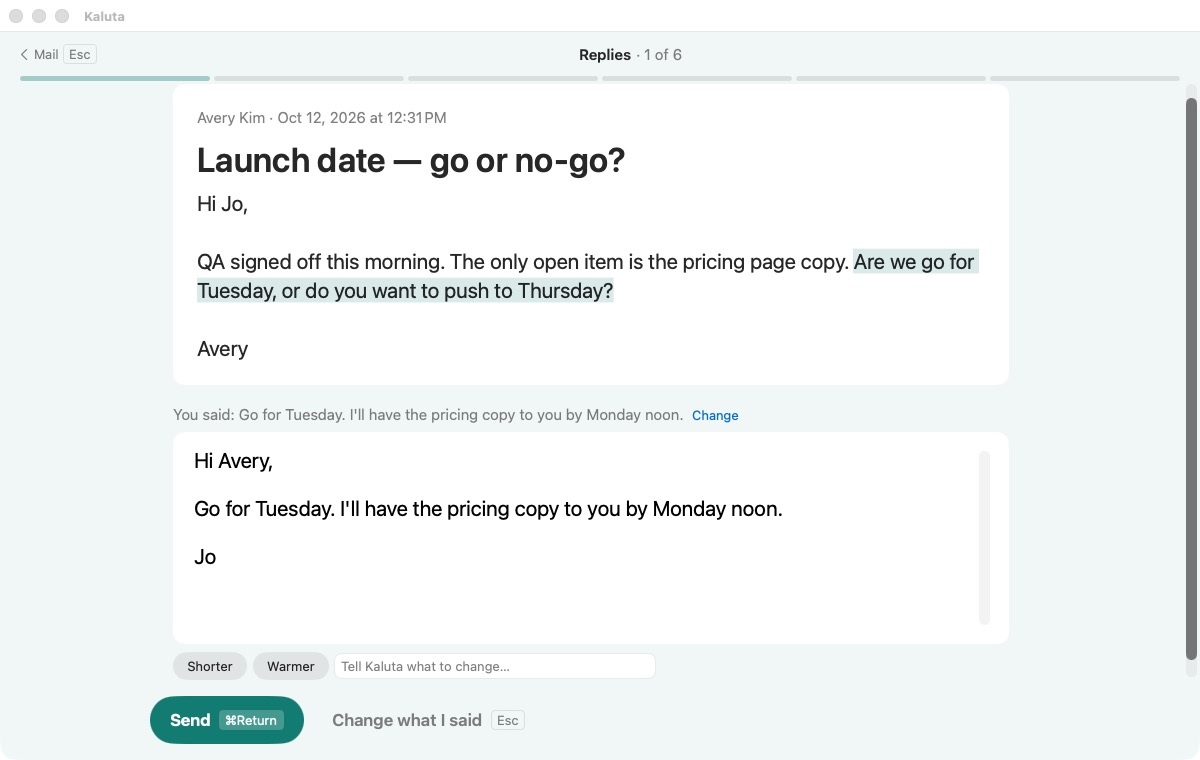
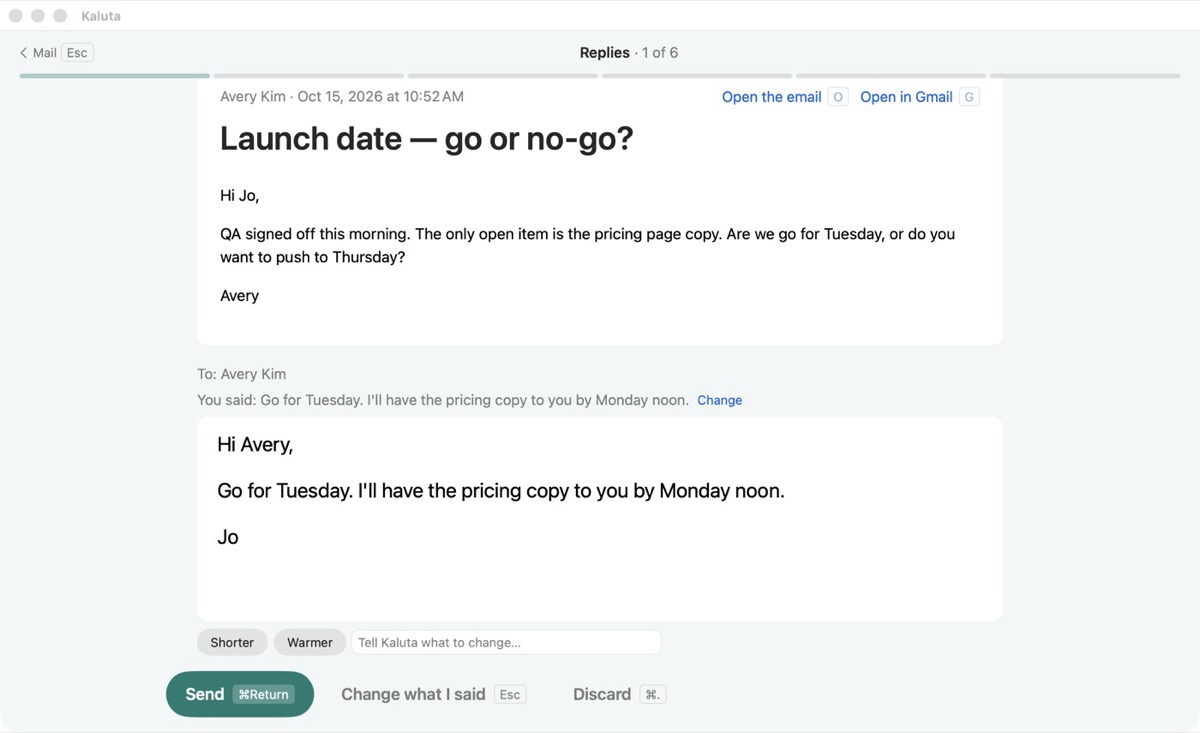
Features page: all seven workflows, with new screenshots
Weekly reading, Agents and Teach Kaluta join Triage, Replies, Tasks and
Waiting on others, each with a screenshot from the workflow demo; the
four existing shots and What's Next are retaken for the reworked screens
(Triage marks its suggestion on its own button, emails show as sent with
Open the email and Open in Gmail, Write it with Kaluta or Use my words).
The preview note shows the Inbox's Daily Workflows offer. Agent sends now
go through Review and Send (new card image replaces agent-task.png);
routines, the writing guide and agent mailboxes mention Weekly reading,
Teach Kaluta and the Agents workflow.

Comparison pages: the Daily workflows row lists all seven and the
routine cells mention Weekly reading; no new claims about the other
products.

diff --git a/src/app/features/page.tsx b/src/app/features/page.tsx
@@ -49,20 +49,23 @@ const workflows = [
     name: "Triage",
     dot: "bg-indigo-500",
     src: "/img/workflow-triage.jpg",
-    alt: "Triage, 1 of 9: Sam Rivera's email asking whether Thursday at 2 works for board prep, under Kaluta's suggestion, Quick reply · about 20 seconds, the reason Sam asks something quick, and the conversation's task. Buttons: Reply (Return), Make a task (T), Archive (E), Leave in Inbox (L), Skip for now (S)",
-    text: "Every new conversation, people first, with Kaluta's suggestion and its reason: a quick reply when the answer takes 30 seconds or less, with up to three answers ready to pick; a task when it takes longer, filled in on the same screen; archive; or leave it in the Inbox. Return takes the suggestion, and the other choices are always one key away.",
+    height: 760,
+    alt: "Triage, 1 of 9: Sam Rivera's email asking whether Thursday at 2 works for board prep, as it was sent, with Open the email (O) and Open in Gmail (G); above it Kaluta's suggestion, Quick reply · about 20 seconds, its reason, and the conversation's task. Buttons: Reply (Return), Make a task (T), Archive (E), Leave in Inbox (L), Skip for now (S)",
+    text: "Every new conversation, people first, with Kaluta's suggestion and its reason: a quick reply when the answer takes 30 seconds or less, with up to three answers ready to pick; a task when it takes longer, filled in on the same screen; archive; or leave it in the Inbox. The suggestion is marked on its own button and the keys never move, so Return is always Reply. A long newsletter or report shows Kaluta's short summary instead, and if you already wrote to the sender in another thread, Triage says so.",
   },
   {
     name: "Replies",
     dot: "bg-teal-600",
     src: "/img/workflow-replies.jpg",
-    alt: "Replies, 1 of 6: Avery Kim asks whether launch goes ahead on Tuesday or moves to Thursday, with the question highlighted, then What do you want to say? with the starters Go for Tuesday and Push to Thursday, and a Write it button",
-    text: "Conversations that ask you something and have no task. Kaluta highlights the questions and asks what you want to say, with starters drawn from them; it writes nothing until you have said something. Sending archives the conversation, and ⌘Z puts it back.",
+    height: 733,
+    alt: "Replies, 1 of 6: Avery Kim asks whether launch goes ahead on Tuesday or moves to Thursday, then What do you want to say? Kaluta writes the email from it, for you to read and change before it goes; starters Go for Tuesday and Push to Thursday; buttons Write it with Kaluta, Use my words and Cancel",
+    text: "Conversations that ask you something and have no task. Kaluta asks what you want to say, with starters drawn from the email's questions, and writes nothing until you have said something; Use my words makes what you typed the email, with no draft. Sending archives the conversation, Archive (E) is there when no reply is needed, and ⌘Z puts it back.",
   },
   {
     name: "Tasks",
     dot: "bg-orange-600",
     src: "/img/workflow-tasks.jpg",
+    height: 733,
     alt: "Tasks, 1 of 3: Update the card on Example Cloud, Admin, carried over from yesterday, with the reason and the billing email below; a rail lists the day's three tasks and a pill says 2 more later this week. Buttons: Done (E), Tomorrow (L), Skip for now (S)",
     text: "Today's tasks one at a time, carried-over ones first, with the email below and the day's set in a rail. A task that ends in a reply asks what you decided, then Send and finish the task completes it and archives the email. Tomorrow moves one on without penalty; one finished elsewhere shows as done.",
   },
@@ -70,8 +73,33 @@ const workflows = [
     name: "Waiting on others",
     dot: "bg-purple-600",
     src: "/img/workflow-waiting.jpg",
+    height: 733,
     alt: "Waiting on others, 1 of 14: Waiting on Casey Tanaka · 13 days, because the email asks them something, above what you wrote; a rail lists who owes an answer and for how long. Buttons: Nudge (Return), Let it go (E), Check again (L), Skip for now (S)",
     text: "Once a day Kaluta reads the mail you sent and works out which expects an answer, labelling it Waiting so Gmail sees it too. After three days with no reply (a setting) it joins the list, longest first. Nudge picks from up to three follow-ups written ahead, Let it go takes the label off, and Check again hides it for a day, three days or a week.",
+  },
+  {
+    name: "Weekly reading",
+    dot: "bg-amber-700",
+    src: "/img/workflow-reading.jpg",
+    height: 733,
+    alt: "Weekly reading, 1 of 3, in the Needs action soon label: Degraded performance in us-east from Status Alerts, shown as Kaluta's one-line summary; a rail lists the label's three unread emails. Buttons: Read, next (E), Open in full (O), Keep for later (L), Back to the Inbox (I), Clear the bucket (⌘E)",
+    text: "What your sorting routine filed, on the day each label is due: daily ones every day, weekly ones on Friday or a day you choose, monthly ones on the 1st. A short report comes first, then each label one email at a time as Kaluta's summary, written when the routine sorted it. Reading and clearing mark mail read and keep the label; sending one back to the Inbox has Kaluta propose a change to the routine.",
+  },
+  {
+    name: "Agents",
+    dot: "bg-slate-600",
+    src: "/img/workflow-agents.jpg",
+    height: 733,
+    alt: "Agents, 1 of 2: a verification code from Example Journals to an agent mailbox, research-scout@demo.primitive.email, shown large as 482 913 with when it expires. Buttons: Copy the code (C), Done (E), Skip for now (S)",
+    text: "Everything your agents are waiting on you for, across accounts: a send an agent proposed, opened on the email itself to edit and send or not; a verification code that arrived in an agent mailbox, shown large with Copy the code; and this morning's sorting run, to keep or undo. A pill says what agent mailboxes sent on their own.",
+  },
+  {
+    name: "Teach Kaluta",
+    dot: "bg-green-700",
+    src: "/img/workflow-teach.jpg",
+    height: 733,
+    alt: "Teach Kaluta, 1 of 7: a proposed rule, Never write 'circle back', from learning your sent mail, with how it is checked and The messages that show it (O); a rail lists the rest, rules, a guideline, a change and facts. Buttons: Accept (E), Edit… (W), Reject, Show the evidence (O), Skip for now (S)",
+    text: "What Kaluta has learned and wants you to approve, one proposal at a time: writing-guide rules, facts about you, and changes to the sorting routine. Each shows the change it makes, with its evidence on O. Accept, edit or reject each one; there is no Accept All, and ⌘Z undoes a decision and its change together.",
   },
 ];
 
@@ -87,17 +115,18 @@ function Workflows() {
         </h2>
         <p className="mt-4 text-muted text-balance">
           Kaluta opens on <strong className="text-foreground">What&apos;s Next</strong>:
-          how long today&apos;s mail will take, and the job to start with. Each
-          workflow is one daily job, shown one item at a time from a set fixed
-          when you start, with a key on every button and Undo instead of
-          confirmation dialogs. Leave with Esc and come back to the same place;
-          mail that arrives meanwhile waits for the end.
+          how long today&apos;s mail will take, the job to start with, the
+          people you know who wrote, and what is worth a look first. Seven
+          workflows each take one daily job, one item at a time from a set
+          fixed when you start, with a key on every button and Undo instead of
+          confirmation dialogs. Esc goes back to your mail and comes back to
+          the same place; mail that arrives meanwhile waits for the end.
         </p>
       </div>
       <div className="mt-10">
         <Shot
           src="/img/workflows-start.jpg"
-          alt="What's Next: Monday, October 12; About 30 minutes of mail today. A large card, Triage what's new, 9 new conversations, starts on Return; smaller cards for Replies (6 waiting on your answer), Tasks (3 for today, 2 later this week), Waiting on others (14 with no answer), Weekly reading, Agents and Teach Kaluta"
+          alt="What's Next: Thursday, October 15; About 32 minutes of mail today. A large card, Triage what's new, 9 new conversations, from Taylor Chen, Avery Kim, Drew Haddad, Sam Rivera and 2 others you know, with three worth a look and why (answers you, asks you something, to you alone), starts on Return; smaller cards for Replies (6 waiting on your answer), Tasks (3 for today, 2 later this week), Waiting on others (14 with no answer), Weekly reading (3 due today), Agents (2 waiting on you) and Teach Kaluta (7 to decide)"
           width={1200}
           height={760}
         />
@@ -105,7 +134,7 @@ function Workflows() {
       <div className="mt-12 grid gap-x-10 gap-y-14 md:grid-cols-2">
         {workflows.map((w) => (
           <div key={w.name}>
-            <Shot src={w.src} alt={w.alt} width={1200} height={760} />
+            <Shot src={w.src} alt={w.alt} width={1200} height={w.height} />
             <h3 className="mt-5 flex items-center gap-2.5 text-xl font-semibold tracking-tight">
               <span className={`size-2.5 rounded-full ${w.dot}`} />
               {w.name}
@@ -113,40 +142,52 @@ function Workflows() {
             <p className="mt-2 text-muted">{w.text}</p>
           </div>
         ))}
-      </div>
-      <div className="mt-16 grid items-center gap-10 md:grid-cols-2">
-        <div>
+        <div className="self-center">
           <h3 className="text-xl font-semibold tracking-tight">
             Kaluta writes after you
           </h3>
-          <p className="mt-3 text-muted">
-            In a workflow, Kaluta drafts only once you have said what you want,
-            typed or dictated, or, where the answer is short and predictable,
-            offers up to three to pick from. Every email it writes ends on an
-            editable screen: what you said above it, Shorter, Warmer or a
-            change in your own words, then Send.
+          <p className="mt-2 text-muted">
+            Kaluta drafts only once you have said what you want, typed or
+            dictated, or, where the answer is short and predictable, offers up
+            to three to pick from. Every email it writes ends on an editable
+            screen: who it goes to, what you said above it, Shorter, Warmer or a
+            change in your own words, then Send. Reply all is A when others are
+            on the email.
+          </p>
+        </div>
+      </div>
+      <div className="mt-16 grid items-center gap-10 md:grid-cols-2">
+        <div>
+          <p className="text-muted">
+            The suggestions, summaries, answers and nudges come from your own
+            agent, Claude Code or Codex, working read-only in the background.
+            Emails show as they were sent, and open in their own window (O) or
+            in Gmail (G). Ending a set closes a ring and plays a short
+            chord. There are no streaks or red counts, and work from an earlier
+            day is carried over, never overdue.
           </p>
           <p className="mt-3 text-muted">
-            The suggestions, answers and nudges come from your own agent,
-            Claude Code or Codex, working read-only in the background. Ending a
-            set closes a ring and plays a short chord. There are no streaks or
-            red counts, and work from an earlier day is carried over, never
-            overdue.
+            Workflows are a preview. Once Kaluta finds Claude Code or Codex on
+            your Mac, the Inbox offers to turn them on; you can also turn on{" "}
+            <span className="text-foreground">Open on the start screen</span> in
+            Settings › General.
           </p>
+          <div className="mt-5 w-fit overflow-hidden rounded-lg border border-border bg-white shadow-lg shadow-black/10">
+            <Image
+              src="/img/workflows-tip.png"
+              alt="The Inbox's tip: Daily Workflows. Kaluta can turn your mail into short daily workflows: triage, replies, tasks, follow-ups and reading. It uses your agent in the background. Buttons: Turn On, Not Now"
+              width={460}
+              height={157}
+            />
+          </div>
         </div>
         <Shot
           src="/img/workflow-replies-write.jpg"
-          alt="Replies: under Avery's email, You said: Go for Tuesday. I'll have the pricing copy to you by Monday noon, with Change; the reply Kaluta wrote from it, editable; Shorter, Warmer and Tell Kaluta what to change; and Send (⌘Return)"
+          alt="Replies: under Avery's email, To: Avery Kim, You said: Go for Tuesday. I'll have the pricing copy to you by Monday noon, with Change; the reply Kaluta wrote from it, editable; Shorter, Warmer and Tell Kaluta what to change; and Send (⌘Return), Change what I said (Esc), Discard (⌘.)"
           width={1200}
-          height={760}
+          height={733}
         />
       </div>
-      <p className="mt-12 text-center text-sm text-muted text-balance">
-        Workflows are a preview: turn on{" "}
-        <span className="text-foreground">Open on the start screen</span> in
-        Settings › General. Weekly reading, Agents and Teach Kaluta have
-        places on the start screen and are still being built.
-      </p>
     </section>
   );
 }
@@ -251,7 +292,10 @@ export default function Features() {
               that would leave your Mac.
             </p>
             <p className="mt-3 text-muted">
-              You review the proposal and approve or reject it. Reply to a
+              Nothing it writes goes out unseen: a send it proposes opens with{" "}
+              <span className="text-foreground">Review and Send</span> on the
+              email itself, in the composer, for you to change before it goes,
+              or you reject it. Reply to a
               conversation with an open task yourself, from anywhere, and the
               composer names the task and offers{" "}
               <span className="text-foreground">Send and Finish Task</span> or{" "}
@@ -259,12 +303,14 @@ export default function Features() {
             </p>
           </div>
           <div className="md:order-1">
-            <Shot
-              src="/img/agent-task.png"
-              alt="Claude, asked to draft the reply Emerson is waiting for, proposes sending Re: Onboarding plan, with Review, Reject and Approve buttons"
-              width={1200}
-              height={769}
-            />
+            <div className="mx-auto w-fit overflow-hidden rounded-lg border border-border bg-white shadow-lg shadow-black/10">
+              <Image
+                src="/img/agent-proposal.png"
+                alt="Claude, asked to draft the reply Emerson is waiting for, proposes sending Re: Onboarding plan to emerson@example.org, with Reject and Review and Send buttons"
+                width={460}
+                height={270}
+              />
+            </div>
           </div>
         </div>
 
@@ -284,6 +330,12 @@ export default function Features() {
               it locally with your own agent, or publish it as a Claude Code
               cloud routine through your own Claude login so it keeps going
               when your Mac is asleep.
+            </p>
+            <p className="mt-3 text-muted">
+              The Weekly reading workflow then brings each label back on the
+              day it is due, one email at a time as Kaluta&apos;s summary.
+              Send one back to the Inbox and Kaluta proposes leaving that
+              sender alone next time, for you to accept.
             </p>
           </div>
           <RoutineIllustration />
@@ -343,8 +395,9 @@ export default function Features() {
               versions side by side and the differing words marked. A pattern
               needs to show up in two or three messages before it&apos;s
               proposed. The Writing Guide&apos;s header says how many rules
-              are waiting; you review them as cards, accept, edit or reject
-              each one, and every decision can be undone. What you tell Kaluta
+              are waiting, and the Teach Kaluta workflow takes you through them
+              one at a time with their evidence: accept, edit or reject each
+              one, and every decision can be undone. What you tell Kaluta
               when it writes for you counts as evidence too, and a proposal can
               quote your words.
             </p>
@@ -392,7 +445,8 @@ export default function Features() {
               agent. Per mailbox you choose whether agents send freely (each
               message is checked against the mailbox&apos;s guide and logged)
               or ask before each send, as on your own accounts. Deleting mail
-              always asks. Two services are supported, both free to start:{" "}
+              always asks. Verification codes that arrive in an agent mailbox
+              show up large in the Agents workflow, ready to copy. Two services are supported, both free to start:{" "}
               <a href="https://primitive.dev" className="underline hover:text-foreground">
                 Primitive
               </a>{" "}

diff --git a/src/app/compare/gmail/page.tsx b/src/app/compare/gmail/page.tsx
@@ -88,7 +88,7 @@ const c: Comparison = {
       feature: "Sorting",
       openagc: {
         verdict: "yes",
-        text: "Gmail's categories, plus routines: an agent sorts automated mail into daily, weekly and monthly labels, locally or in Claude's cloud",
+        text: "Gmail's categories, plus routines: an agent sorts automated mail into daily, weekly and monthly labels, locally or in Claude's cloud; Weekly reading brings each label back on the day it's due (preview)",
       },
       other: { verdict: "yes", text: "Categories, filters, Important, Priority Inbox" },
     },
@@ -104,7 +104,7 @@ const c: Comparison = {
       feature: "Daily workflows",
       openagc: {
         verdict: "yes",
-        text: "Preview: Triage, Replies, Tasks and Waiting on others, one item at a time; Triage shows Kaluta's suggested action and its reason for each new conversation",
+        text: "Preview: seven workflows (Triage, Replies, Tasks, Waiting on others, Weekly reading, Agents, Teach Kaluta), one item at a time; Triage shows Kaluta's suggested action and its reason for each new conversation",
       },
       other: { verdict: "partial", text: "AI Inbox (beta; US, English, with Google AI Plus, Pro or Ultra or Workspace Enterprise Plus) lists suggested to-dos with Reply or View; category tabs" },
     },

diff --git a/src/app/compare/apple-mail/page.tsx b/src/app/compare/apple-mail/page.tsx
@@ -85,7 +85,7 @@ const c: Comparison = {
       feature: "Sorting",
       openagc: {
         verdict: "yes",
-        text: "Gmail's categories, plus routines: an agent sorts automated mail into daily, weekly and monthly labels, locally or in Claude's cloud",
+        text: "Gmail's categories, plus routines: an agent sorts automated mail into daily, weekly and monthly labels, locally or in Claude's cloud; Weekly reading brings each label back on the day it's due (preview)",
       },
       other: { verdict: "yes", text: "Categories (Primary, Transactions, Updates, Promotions), rules, Smart Mailboxes" },
     },
@@ -101,7 +101,7 @@ const c: Comparison = {
       feature: "Daily workflows",
       openagc: {
         verdict: "yes",
-        text: "Preview: Triage, Replies, Tasks and Waiting on others, one item at a time; Triage shows Kaluta's suggested action and its reason for each new conversation",
+        text: "Preview: seven workflows (Triage, Replies, Tasks, Waiting on others, Weekly reading, Agents, Teach Kaluta), one item at a time; Triage shows Kaluta's suggested action and its reason for each new conversation",
       },
       other: { verdict: "no", text: "None described in Mail's guide; Categories sort the inbox and suggested actions add a reminder or event" },
     },

diff --git a/src/app/compare/superhuman/page.tsx b/src/app/compare/superhuman/page.tsx
@@ -98,7 +98,7 @@ const c: Comparison = {
       feature: "Sorting and labels",
       openagc: {
         verdict: "yes",
-        text: "Routines: scheduled sorting into daily, weekly and monthly labels, locally or as a Claude cloud routine; Gmail's categories",
+        text: "Routines: scheduled sorting into daily, weekly and monthly labels, locally or as a Claude cloud routine; Weekly reading brings each label back on the day it's due (preview); Gmail's categories",
       },
       other: { verdict: "yes", text: "Split Inbox and custom auto labels (Business)" },
     },
@@ -114,7 +114,7 @@ const c: Comparison = {
       feature: "Daily workflows",
       openagc: {
         verdict: "yes",
-        text: "Preview: Triage, Replies, Tasks and Waiting on others, one item at a time; Triage shows Kaluta's suggested action and its reason for each new conversation",
+        text: "Preview: seven workflows (Triage, Replies, Tasks, Waiting on others, Weekly reading, Agents, Teach Kaluta), one item at a time; Triage shows Kaluta's suggested action and its reason for each new conversation",
       },
       other: { verdict: "partial", text: "Split Inbox, auto labels and Get Me To Zero for working through the inbox; its help centre describes no one-at-a-time mode" },
     },

diff --git a/src/app/compare/mailstrom/page.tsx b/src/app/compare/mailstrom/page.tsx
@@ -89,7 +89,7 @@ const c: Comparison = {
       feature: "Scheduled sorting of automated mail",
       openagc: {
         verdict: "yes",
-        text: "Routines: an agent sorts alerts, newsletters and receipts into daily, weekly and monthly labels, locally or in Claude's cloud",
+        text: "Routines: an agent sorts alerts, newsletters and receipts into daily, weekly and monthly labels, locally or in Claude's cloud; Weekly reading brings each label back on the day it's due (preview)",
       },
       other: { verdict: "partial", text: "Rules move future mail matching a sender or subject" },
     },
@@ -97,7 +97,7 @@ const c: Comparison = {
       feature: "Daily workflows",
       openagc: {
         verdict: "yes",
-        text: "Preview: Triage, Replies, Tasks and Waiting on others, one item at a time; Triage shows Kaluta's suggested action and its reason for each new conversation",
+        text: "Preview: seven workflows (Triage, Replies, Tasks, Waiting on others, Weekly reading, Agents, Teach Kaluta), one item at a time; Triage shows Kaluta's suggested action and its reason for each new conversation",
       },
       other: { verdict: "partial", text: "Bundles group related mail so you can act on many messages at once; no AI suggestions" },
     },
